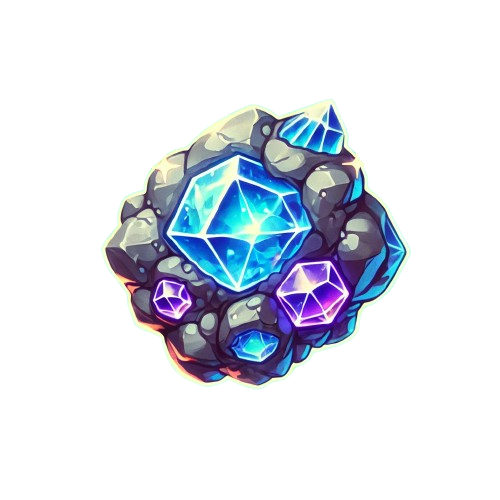
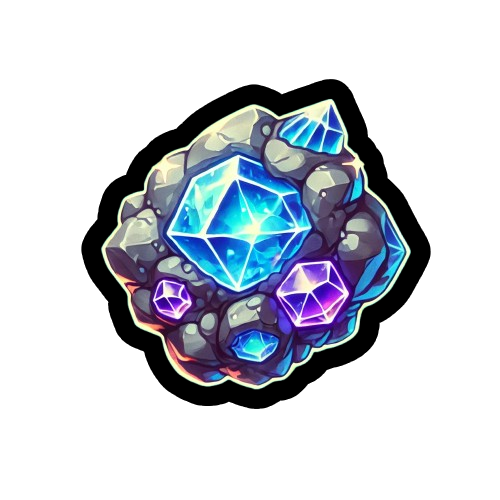
added stroke to nadium.png, added validate_spawn between nadium and obstacle. Needs fixing

Changed region(s): [[0.15, 0.15, 0.87, 0.84]]

diff --git a/gameLogic.py b/gameLogic.py
@@ -102,3 +102,7 @@ class GameLogic:
             self.spawn_nadium(1)
             self.nadium_spawn_timer_count = 0
         self.nadium_spawn_timer_count += 1
+    
+    def validate_spawn(self, nadium_x, obstacle_x):
+        """validate spawn between Nadium and Obstacle"""
+        pass
